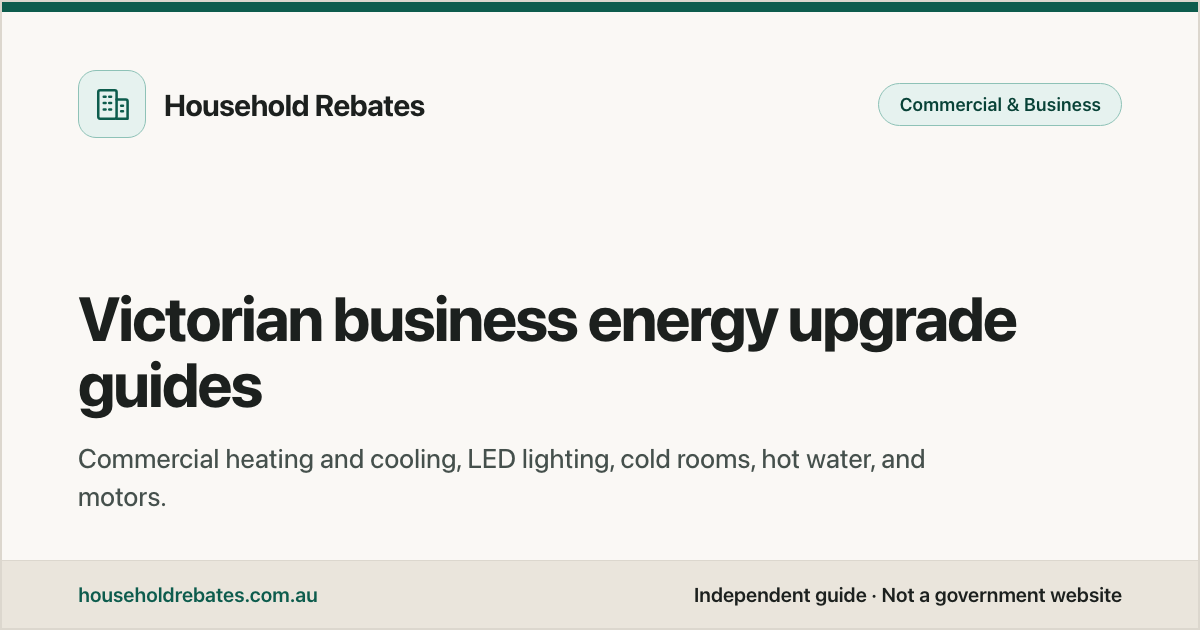
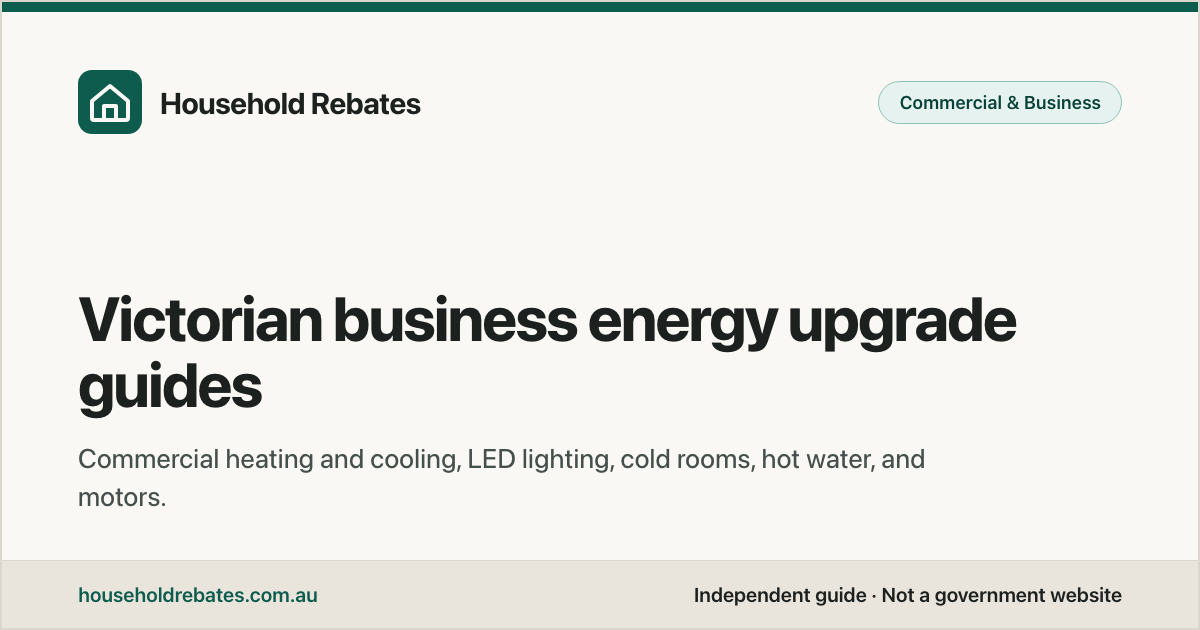
feat(ui,docs): unify house brand mark across header and OG cards, capture p44 screenshots, and update changelog (44)

Changed region(s): [[0.74, 0.1206, 0.925, 0.2111], [0.0617, 0.0905, 0.37, 0.2111]]

diff --git a/CHANGELOG.md b/CHANGELOG.md
@@ -12,7 +12,9 @@ One entry per day of releases, newest first. Big releases also get a dated chang
 
 ## 15 Nov 2026
 
-**Live release:** `20261115-1706-74a98be` (earlier today: `20261115-1649-5c0c3a3`). Full details: [change record, 15 Nov 2026](docs/change-record-2026-11-15.md).
+**Live release:** `20261115-1824-9d28847` (earlier today: `20261115-1813-bf48a62`, `20261115-1706-74a98be`, `20261115-1649-5c0c3a3`). Full details: [change record, 15 Nov 2026](docs/change-record-2026-11-15.md).
+
+- **Changed:** Unified the brand mark across `Header.astro` (`.site-brand__mark`) and all five Open Graph share images (`site/public/og/*.png`) to match the house mark in `favicon.svg` (alongside multi-size `favicon.ico` and `apple-touch-icon.png` in `9d28847`), and pruned merged local branches. (prompt 44)
 
 - **Ops:** Added weekly cookieless GoAccess + AI log reporting (`ops/weekly-report.sh`, `ops/systemd/hr-report.service`, `ops/systemd/hr-report.timer`) writing IP-free (`--ignore-panel=HOSTS --anonymize-ip`) mode-`0750` HTML + text reports to `/var/lib/householdrebates/reports/<YYYY-Www>/` (`root:hr-reports`, 12-week retention), plus a `301` `/sitemap.xml` → `/sitemap-index.xml` redirect in `redirects.json` / `householdrebates-redirects.conf`. (prompt 43)
 - **Changed:** Lazy-loaded checker result evaluation and view (`CheckerResult.tsx`), cutting `Checker+shared` initial JS from `15,278 B` to `8,198 B` gzipped (`7,162 B` headroom under the `15,360 B` cap). (prompt 43 B)
